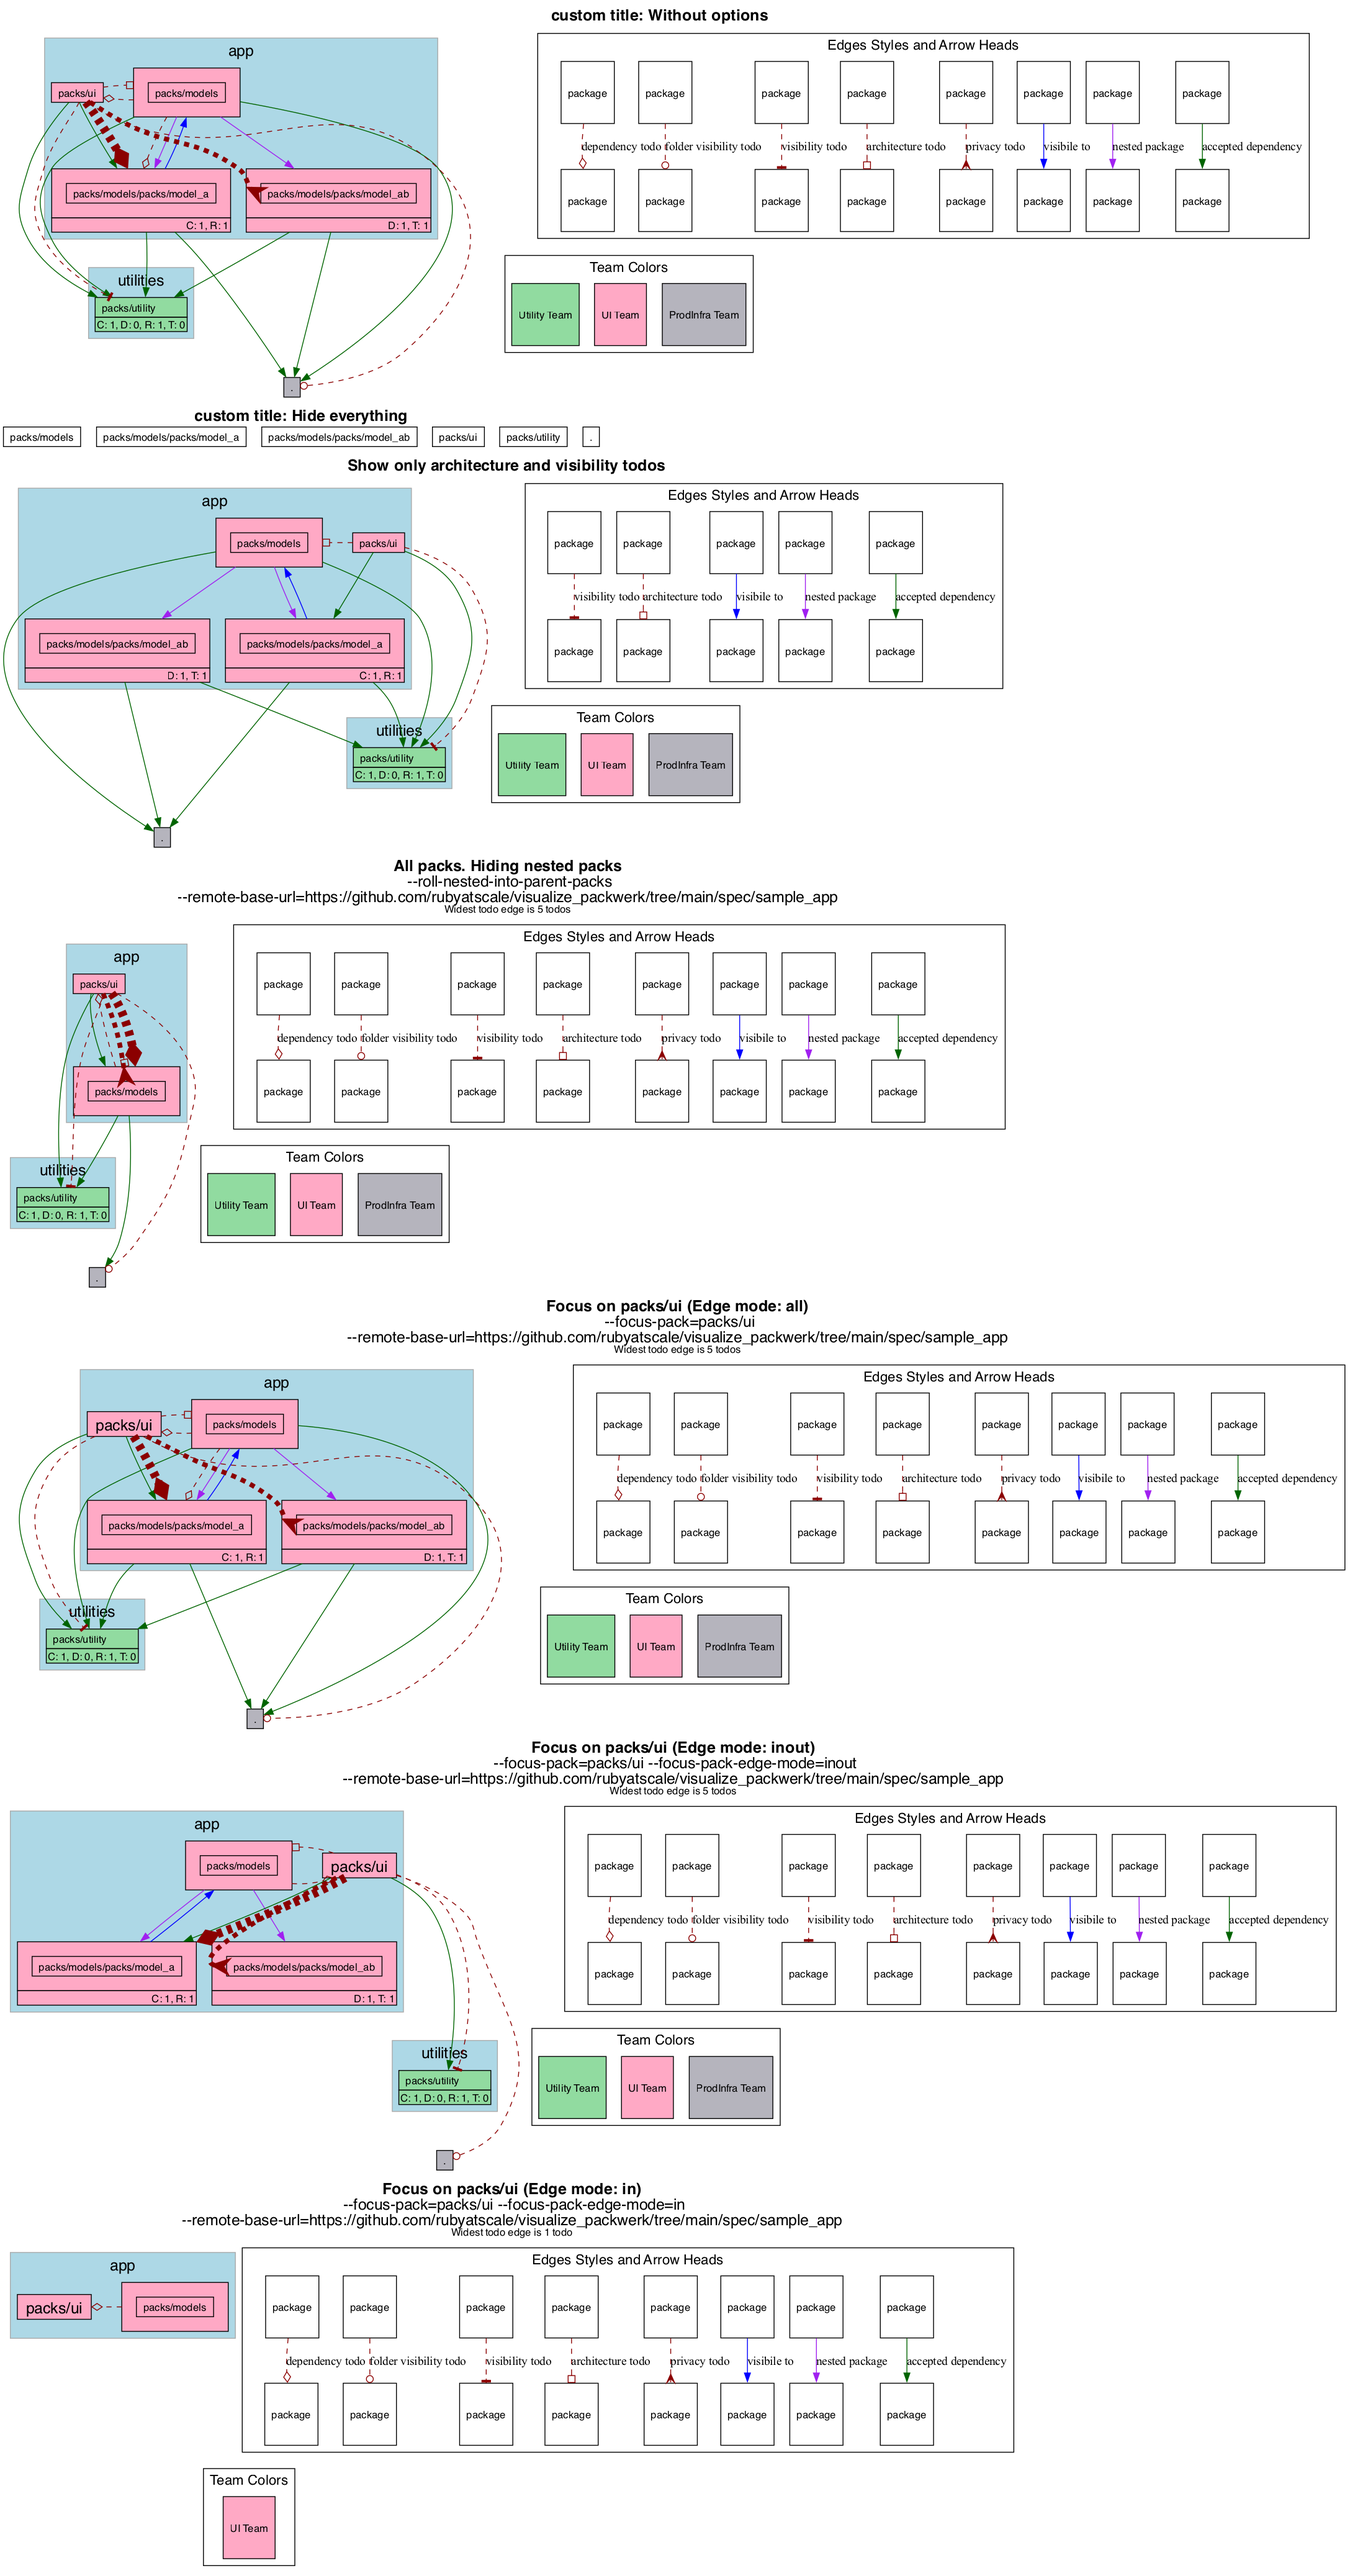
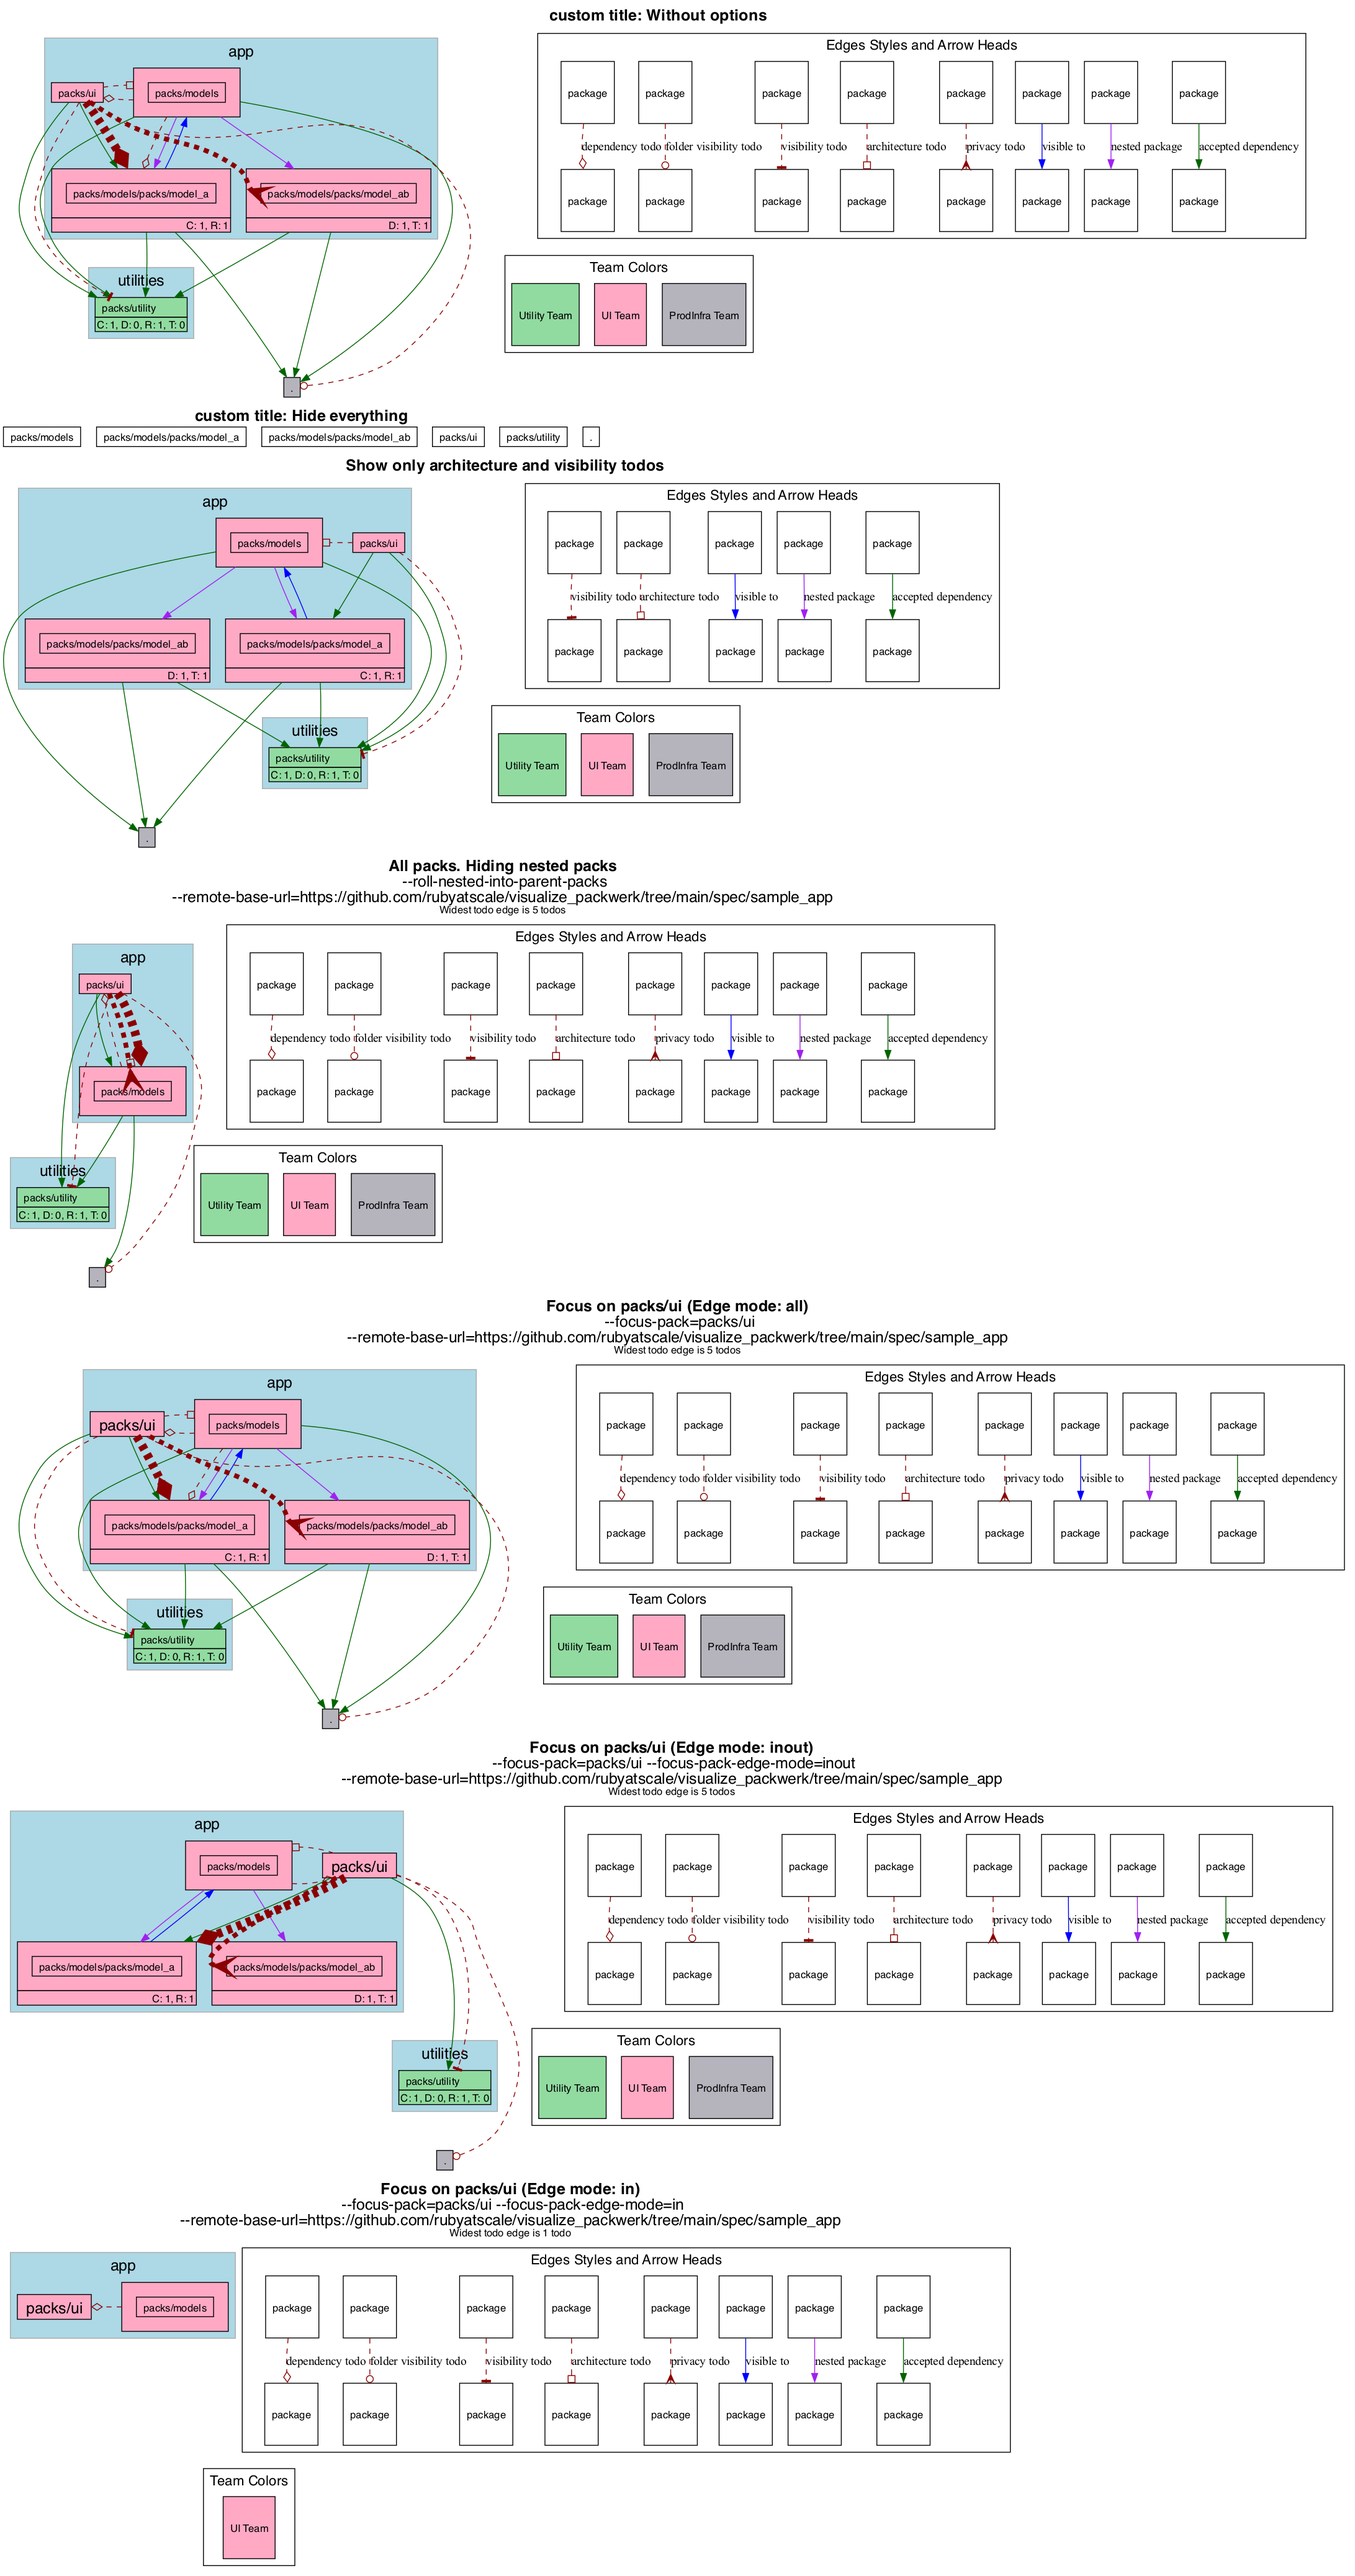
Fix typo (#61)

diff --git a/lib/visualize_packs.rb b/lib/visualize_packs.rb
@@ -20,7 +20,7 @@ module VisualizePacks
       VisibilityTodo = new('color=darkred style=dashed arrowhead=tee')
       FolderVisibilityTodo = new('color=darkred style=dashed arrowhead=odot')
       ConfiguredDependency = new('color=darkgreen')
-      ConfiguredVisibileTo = new('color=blue')
+      ConfiguredVisibleTo = new('color=blue')
       ConfiguredNested = new('color=purple')
     end
   end
